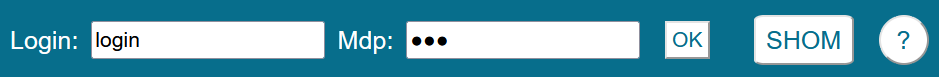
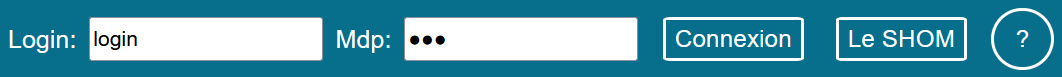
Replace images in the doc with the new style of the website

Changed region(s): [[0.0, 0.1039, 1.0, 0.9091]]

diff --git a/src/components/SwalDocumentation.vue b/src/components/SwalDocumentation.vue
@@ -15,9 +15,6 @@
     <a href="#part4">
       <button id=button_4>4</button>
     </a>
-    <a href="#part5">
-      <button id=button_5>5</button>
-    </a>
 
 
     <div id=part1>
@@ -35,7 +32,7 @@
         Lorsque vous accédez au site, connectez-vous avec vos identifiants du SHOM. Cela vous permettra d'avoir accès aux requêtes et aux pdf des Instructions Nautiques. <br><br>
 
         2. Un bouton qui permet d'accéder aux sites du SHOM : 
-        <img src="../assets/doc/NavBar_shom.png" style="height: 75px;">
+        <img src="../assets/doc/NavBar_shom.png" style="height: 60px;">
       </p>
       <p>
         En cliquant sur ce bouton, une fenêtre pop-up s'ouvre avec des liens vers les 4 sites du SHOM : <br>
@@ -45,26 +42,12 @@
         &emsp;- Portail horaire des marées <br><br>
 
         3. Un bouton qui ramène sur la documentation que vous êtes en train de consulter ! 
-        <img src="../assets/doc/NavBar_help.png" style="height: 75px;">
+        <img src="../assets/doc/NavBar_help.png" style="height: 60px;">
       </p>
     </div>
 
     <div id=part2>
-      <h5>2- Gestion des couches <img src="../assets/doc/Couche.png"> </h5>
-      <p>
-        Le bouton de gestion de couche, lorsqu'il est cliqué, permet de sélectionner les couches à afficher.<br>
-        &emsp;- Hydrography : Carte de profondeur des fonds marins.<br>
-        &emsp;- Soundings : <br>
-        &emsp;- Dangers : Les différents dangers en mer.<br>
-        &emsp;- Restrictions : Différentes restrictions représentées sur la carte.<br>
-        &emsp;- Topography : <br>
-        &emsp;- Aids to navigation : Les bouées et les phares le long de la côte.<br>
-        &emsp;- Metadata : Les métadonnées liées aux zones.<br><br>
-      </p>
-    </div>
-
-    <div id=part3>
-      <h5>3- Gestion de la carte</h5>
+      <h5>2- Gestion de la carte</h5>
       <br>
       <img src="../assets/doc/Gestion_carte.png" style="height: 100px;">
       <br><br>
@@ -83,15 +66,22 @@
       </p>
     </div>
 
-    <div id=part4>
-      <h5>4- Requêtes Sparnatural</h5>
+    <div id=part3>
+      <h5>3- Requêtes et affichage des résultats</h5>
       <p>
-        Lorem ipsum dolor sit amet. Et assumenda ipsa quo vitae iure et saepe corrupti et voluptatem enim. Et doloribus odio nam illo facilis in galisum natus est magnam ratione vel incidunt perspiciatis et sequi error. Non dolorum pariatur aut blanditiis laudantium non doloremque accusantium aut aperiam placeat hic odit maiores. Ut exercitationem delectus in quia accusamus non ipsa nulla 33 deleniti vero a facilis ratione id voluptatibus dolor. Rem voluptates dolores est dolore omnis sit autem aspernatur qui aliquam illum in voluptatem voluptatum. Qui facilis fuga aut facilis quisquam hic excepturi eius voluptatum reprehenderit est quidem modi eum repellat cumque et dolor rerum. Est fugit explicabo qui dolor optio ut nobis nihil eum quia facere et nihil molestiae ut exercitationem tenetur! Qui quis nobis est maxime suscipit cum rerum quasi ut repellendus consequatur aut officia incidunt est blanditiis voluptatibus non ratione culpa!
+        Le bouton de gestion de couche, lorsqu'il est cliqué, permet de sélectionner les couches à afficher.<br>
+        &emsp;- Hydrography : Carte de profondeur des fonds marins.<br>
+        &emsp;- Soundings : <br>
+        &emsp;- Dangers : Les différents dangers en mer.<br>
+        &emsp;- Restrictions : Différentes restrictions représentées sur la carte.<br>
+        &emsp;- Topography : <br>
+        &emsp;- Aids to navigation : Les bouées et les phares le long de la côte.<br>
+        &emsp;- Metadata : Les métadonnées liées aux zones.<br><br>
       </p>
     </div>
 
-    <div id=part5>
-      <h5>5- Affichage des IN en pdf</h5>
+    <div id=part4>
+      <h5>4- Affichage des IN en pdf</h5>
       <p>
         Lorem ipsum dolor sit amet. Et assumenda ipsa quo vitae iure et saepe corrupti et voluptatem enim. Et doloribus odio nam illo facilis in galisum natus est magnam ratione vel incidunt perspiciatis et sequi error. Non dolorum pariatur aut blanditiis laudantium non doloremque accusantium aut aperiam placeat hic odit maiores. Ut exercitationem delectus in quia accusamus non ipsa nulla 33 deleniti vero a facilis ratione id voluptatibus dolor. Rem voluptates dolores est dolore omnis sit autem aspernatur qui aliquam illum in voluptatem voluptatum. Qui facilis fuga aut facilis quisquam hic excepturi eius voluptatum reprehenderit est quidem modi eum repellat cumque et dolor rerum. Est fugit explicabo qui dolor optio ut nobis nihil eum quia facere et nihil molestiae ut exercitationem tenetur! Qui quis nobis est maxime suscipit cum rerum quasi ut repellendus consequatur aut officia incidunt est blanditiis voluptatibus non ratione culpa!
       </p>
@@ -125,25 +115,20 @@
   }
   #button_1{
     position: absolute;
-    left: 562px;
-    top: 85px;
+    left: 480px;
+    top: 82px;
   }
   #button_2{
-    position: absolute;
-    left: 100px;
-    top: 565px;
-  }
-  #button_3{
     position: absolute;
     left: 790px;
     top: 540px;
   }
-  #button_4{
+  #button_3{
     position: absolute;
     left: 857px;
     top: 215px;
   }
-  #button_5{
+  #button_4{
     position: absolute;
     left: 1063px;
     top: 150px;
